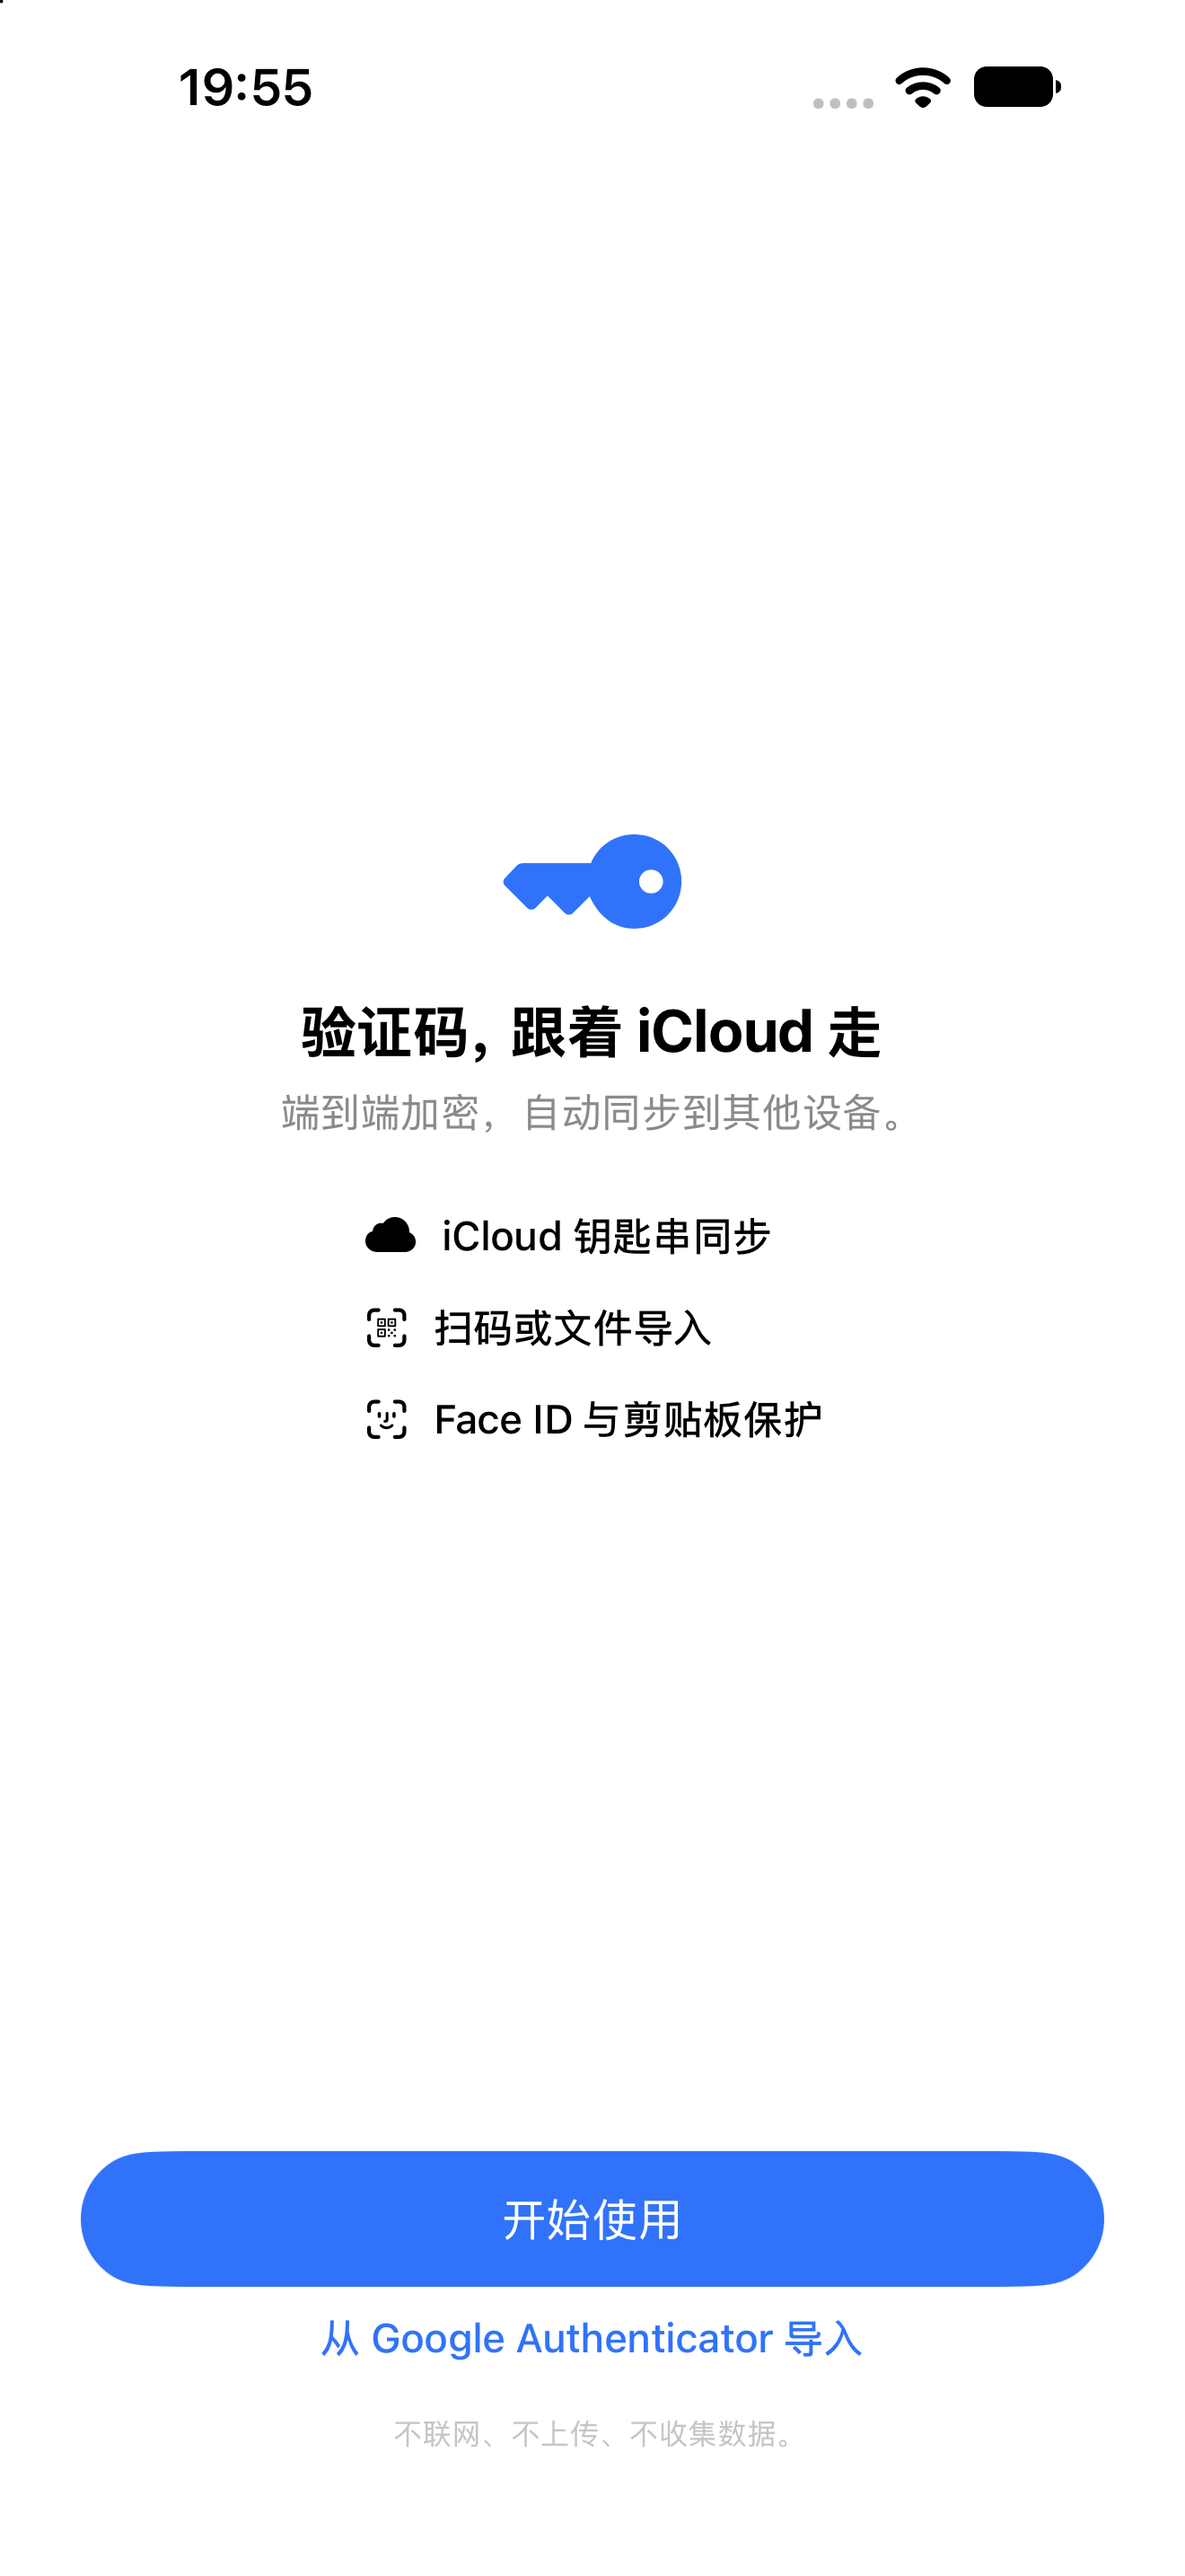
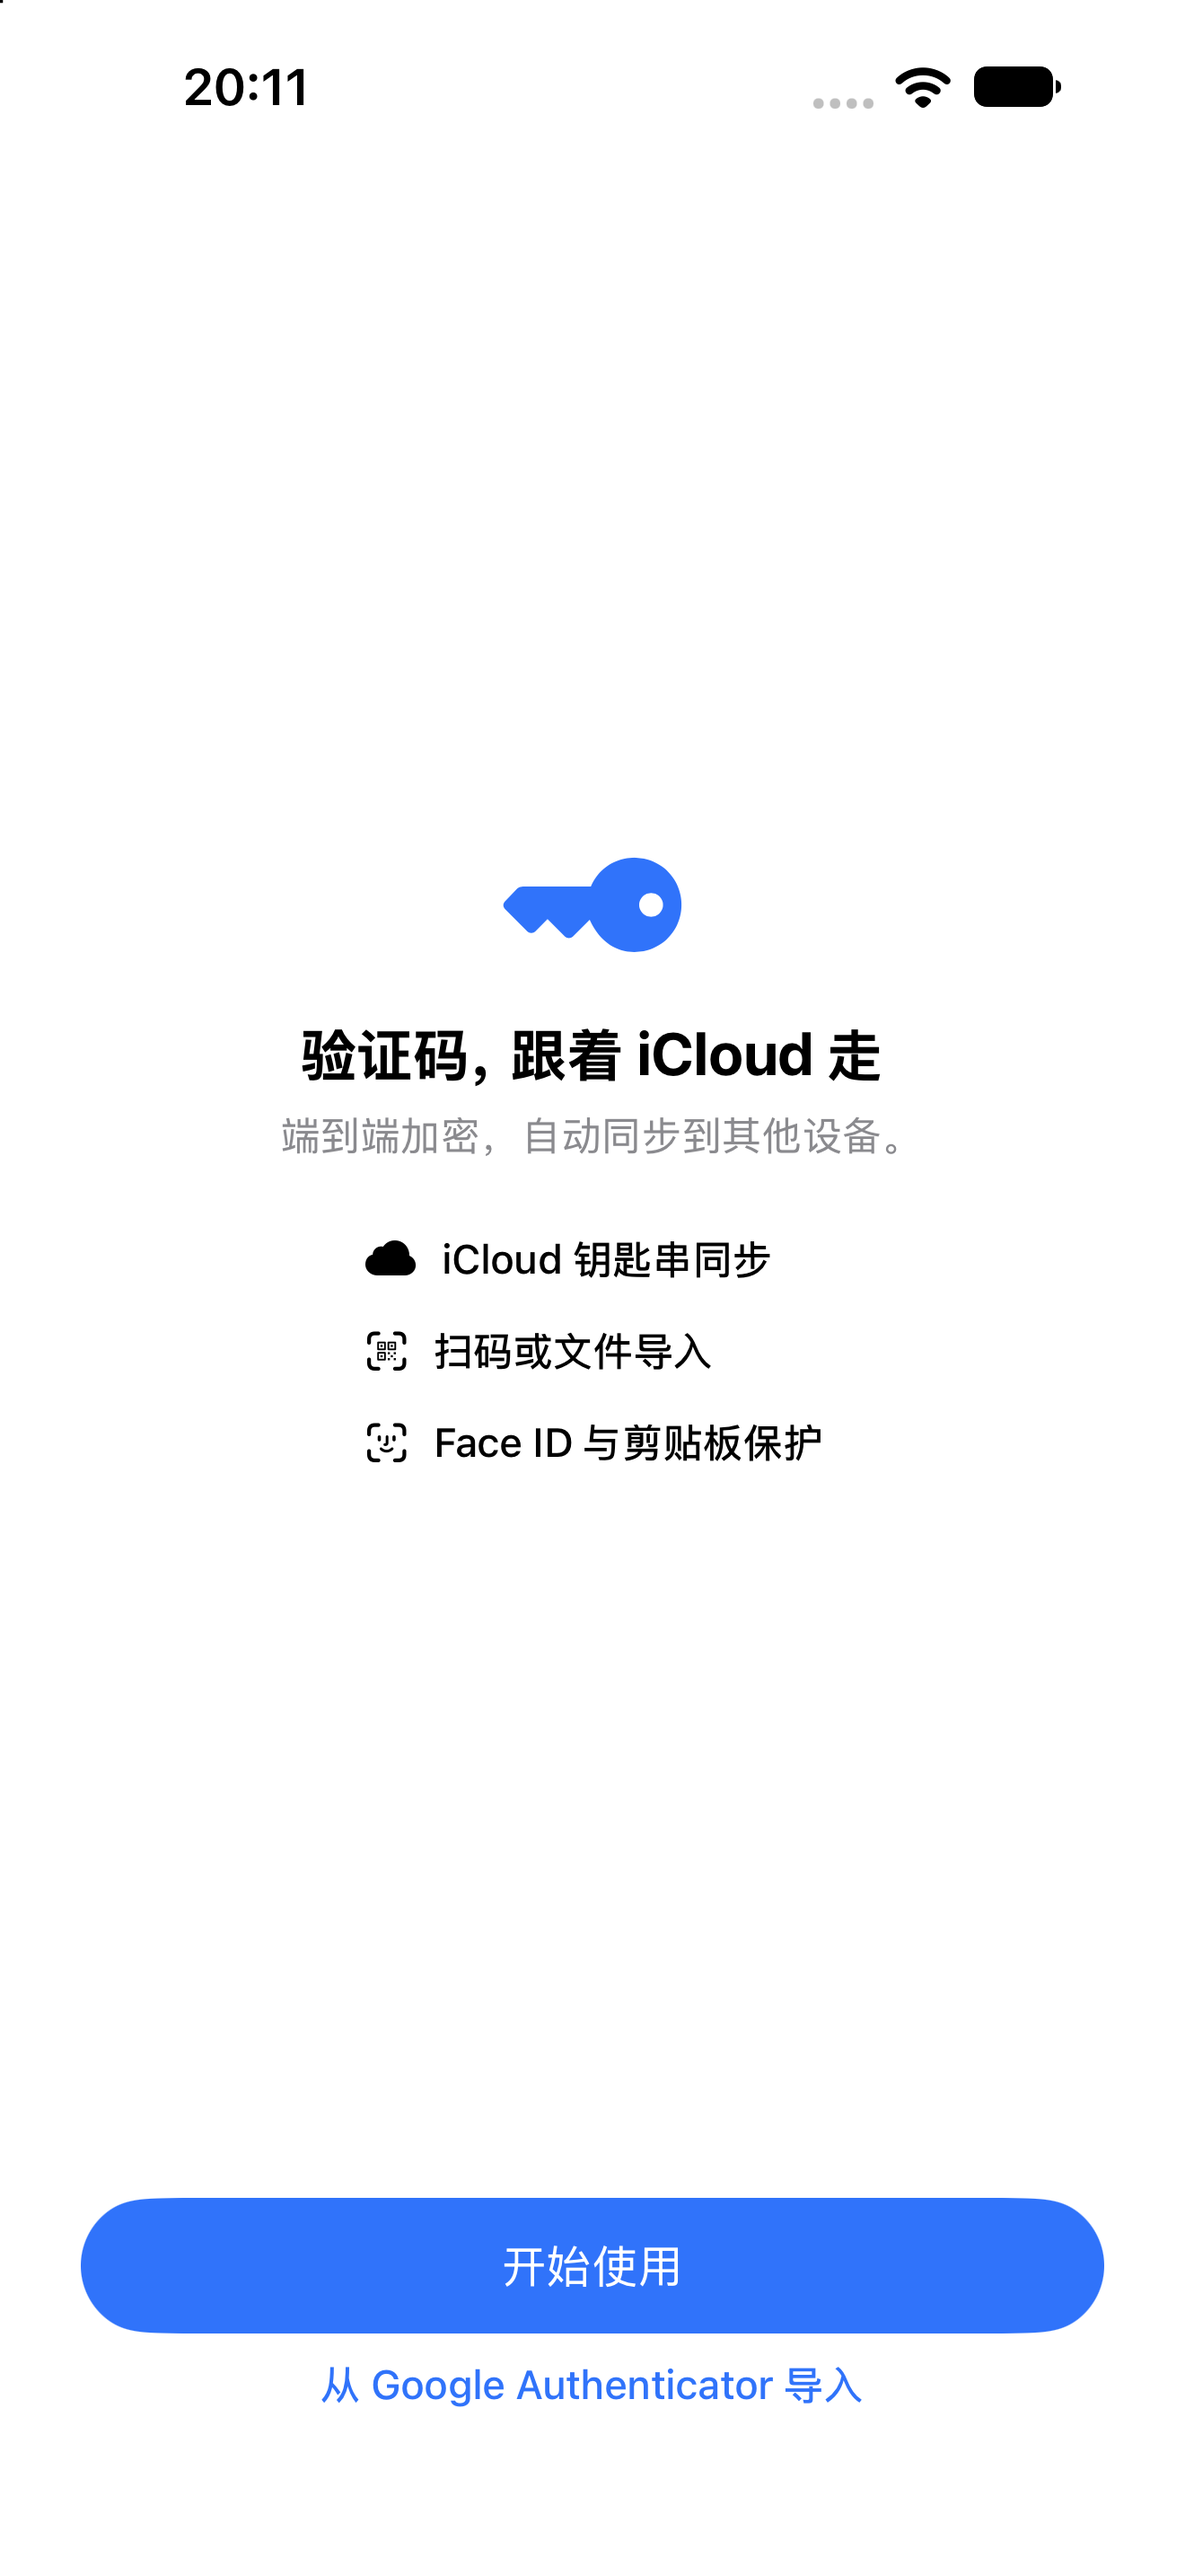
Remove privacy note from onboarding

Changed region(s): [[0.2485, 0.3103, 0.7455, 0.5896], [0.0621, 0.8379, 0.9318, 0.962], [0.1553, 0.031, 0.2485, 0.0621]]

diff --git a/OTP/Features/Onboarding/OnboardingView.swift b/OTP/Features/Onboarding/OnboardingView.swift
@@ -49,11 +49,7 @@ struct OnboardingView: View {
                 .foregroundStyle(.tint)
             }
             .padding(.horizontal, 30)
-
-            Text("不联网、不上传、不收集数据。")
-                .font(.caption2)
-                .foregroundStyle(.tertiary)
-                .padding(.bottom, 12)
+            .padding(.bottom, 28)
         }
     }
 }
